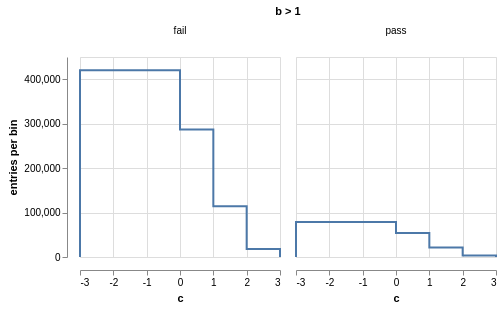
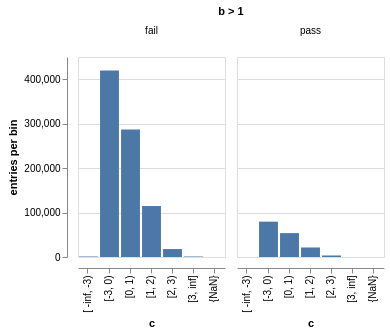
README [skip ci]

diff --git a/histbook/vega.py b/histbook/vega.py
@@ -60,6 +60,15 @@ class TerminalChannel(Channel):
         self.profile = profile
         self.error = error
 
+class BarChannel(TerminalChannel):
+    def __repr__(self):
+        args = [repr(self.axis)]
+        if self.profile is not None:
+            args.append("profile={0}".format(self.profile))
+        if self.error is not False:
+            args.append("error={0}".format(self.error))
+        return ".bar({0})".format("".join(args))
+
 class StepChannel(TerminalChannel):
     def __repr__(self):
         args = [repr(self.axis)]
@@ -146,10 +155,15 @@ class PlottingChain(object):
         if any(isinstance(x, BelowChannel) for x in self._chain):
             raise TypeError("cannot split plots below each other that are already split with below (can do beside and below)")
         return PlottingChain(self, BelowChannel(self._asaxis(axis)))
-        
+
+    def bar(self, axis=None, profile=None, error=False):
+        if error and any(isinstance(x, (BesideChannel, BelowChannel)) for x in self._chain):
+            raise NotImplementedError("error bars are currently incompatible with splitting beside or below")
+        return Plotable(self, BarChannel(self._asaxis(self._singleaxis(axis)), self._asaxis(profile), error))
+
     def step(self, axis=None, profile=None, error=False):
         if any(isinstance(x, StackChannel) for x in self._chain):
-            raise TypeError("only area can be stacked")
+            raise TypeError("only area and bar can be stacked")
         if error and any(isinstance(x, (BesideChannel, BelowChannel)) for x in self._chain):
             raise NotImplementedError("error bars are currently incompatible with splitting beside or below")
         return Plotable(self, StepChannel(self._asaxis(self._singleaxis(axis)), self._asaxis(profile), error))
@@ -161,14 +175,14 @@ class PlottingChain(object):
 
     def line(self, axis=None, profile=None, error=False):
         if any(isinstance(x, StackChannel) for x in self._chain):
-            raise TypeError("only area can be stacked")
+            raise TypeError("only area and bar can be stacked")
         if error and any(isinstance(x, (BesideChannel, BelowChannel)) for x in self._chain):
             raise NotImplementedError("error bars are currently incompatible with splitting beside or below")
         return Plotable(self, LineChannel(self._asaxis(self._singleaxis(axis)), self._asaxis(profile), error))
 
     def marker(self, axis=None, profile=None, error=True):
         if any(isinstance(x, StackChannel) for x in self._chain):
-            raise TypeError("only area can be stacked")
+            raise TypeError("only area and bar can be stacked")
         if error and any(isinstance(x, (BesideChannel, BelowChannel)) for x in self._chain):
             raise NotImplementedError("error bars are currently incompatible with splitting beside or below")
         return Plotable(self, MarkerChannel(self._asaxis(self._singleaxis(axis)), self._asaxis(profile), error))
@@ -195,6 +209,13 @@ class Plotable(object):
     def _data(self, prefix, varname):
         error = self._last.error
         baseline = isinstance(self._last, (StepChannel, AreaChannel))
+        if isinstance(self._last.axis, (histbook.axis.bin, histbook.axis.intbin, histbook.axis.split)):
+            if isinstance(self._last, BarChannel):
+                xtype = "ordinal"
+            else:
+                xtype = "quantitative"
+        else:
+            xtype = "nominal"
 
         profile = self._last.profile
         if profile is None:
@@ -232,7 +253,7 @@ class Plotable(object):
 
                 for i, (n, x) in enumerate(axis.items(content)):
                     if isinstance(n, histbook.axis.Interval):
-                        if j == lastj:
+                        if j == lastj and xtype == "quantitative":
                             if numpy.isfinite(n.low) and numpy.isfinite(n.high):
                                 low = n.low
                                 if baseline and isinstance(axis, (histbook.axis.bin, histbook.axis.split)) and n.low == axis.low:
@@ -266,13 +287,17 @@ class Plotable(object):
     def _vegalite(self, axis, domains, varname):
         error = self._last.error
         baseline = isinstance(self._last, (StepChannel, AreaChannel))
-
         if isinstance(self._last.axis, (histbook.axis.bin, histbook.axis.intbin, histbook.axis.split)):
-            xtype = "quantitative"
+            if isinstance(self._last, BarChannel):
+                xtype = "ordinal"
+            else:
+                xtype = "quantitative"
         else:
             xtype = "nominal"
 
-        if isinstance(self._last, StepChannel):
+        if isinstance(self._last, BarChannel):
+            mark = "bar"
+        elif isinstance(self._last, StepChannel):
             if xtype == "nominal":
                 mark = "bar"
             else:

diff --git a/histbook/axis.py b/histbook/axis.py
@@ -70,7 +70,7 @@ class Interval(object):
         return "{0:4g}".format(n).strip()
 
     def __str__(self):
-        return "{0}{1}, {2}{3}".format(("[" if self._closedlow else "("), self._num(self._low), self._num(self._high), ("]" if self._closedhigh else ")"))
+        return "{0}{1}, {2}{3}".format(("[" if self._closedlow else "("), (" " if self._low == float("-inf") else "") + self._num(self._low), self._num(self._high), ("]" if self._closedhigh else ")"))
 
     def __eq__(self, other):
         return self.__class__ == other.__class__ and self._low == other._low and self._high == other._high and self._closedlow == other._closedlow and self._closedhigh == other._closedhigh

diff --git a/README.rst b/README.rst
@@ -260,23 +260,31 @@ Notice that the three subfigures are labeled by their ``atan2(y, x)`` bins. This
 
 .. image:: docs/source/intro-8.png
 
-In the above, only the last line does any drawing. The syntax is deliberately succinct to encourage interactive exploration. For instance, you can quickly switch from plotting "``c``" side-by-side with "``b > 1``" as the bars:
+In the above, only the last line does any drawing. The syntax is deliberately succinct to encourage interactive exploration. For instance, you can quickly switch from plotting "``c``" side-by-side with "``b > 1``" as bars:
 
 .. code-block:: python
 
-    >>> hist.beside("c").step("b > 1").to(canvas)
+    >>> hist.beside("c").bar("b > 1").to(canvas)
 
 .. image:: docs/source/intro-9.png
 
-to plotting "``b > 1``" side-by-side with "``c``" as the bars:
+to plotting "``b > 1``" side-by-side with "``c``" as bars:
 
 .. code-block:: python
 
-    >>> hist.beside("b > 1").step("c").to(canvas)
+    >>> hist.beside("b > 1").bar("c").to(canvas)
 
 .. image:: docs/source/intro-10.png
 
-We see the same trend in different ways. Whatever axes are not mentioned are summed over: imagine a hypercube whose shadows you project onto the graphical elements of steps, lines, overlays, and trellis.
+or rather, as an area:
+
+.. code-block:: python
+
+    >>> hist.beside("b > 1").area("c").to(canvas)
+
+.. image:: docs/source/intro-11.png
+
+We see the same trend in different ways. Whatever axes are not mentioned are summed over: imagine a hypercube whose shadows you project onto the graphical elements of bars, areas, lines, overlays, and trellises.
 
 Axis constructors
 -----------------
